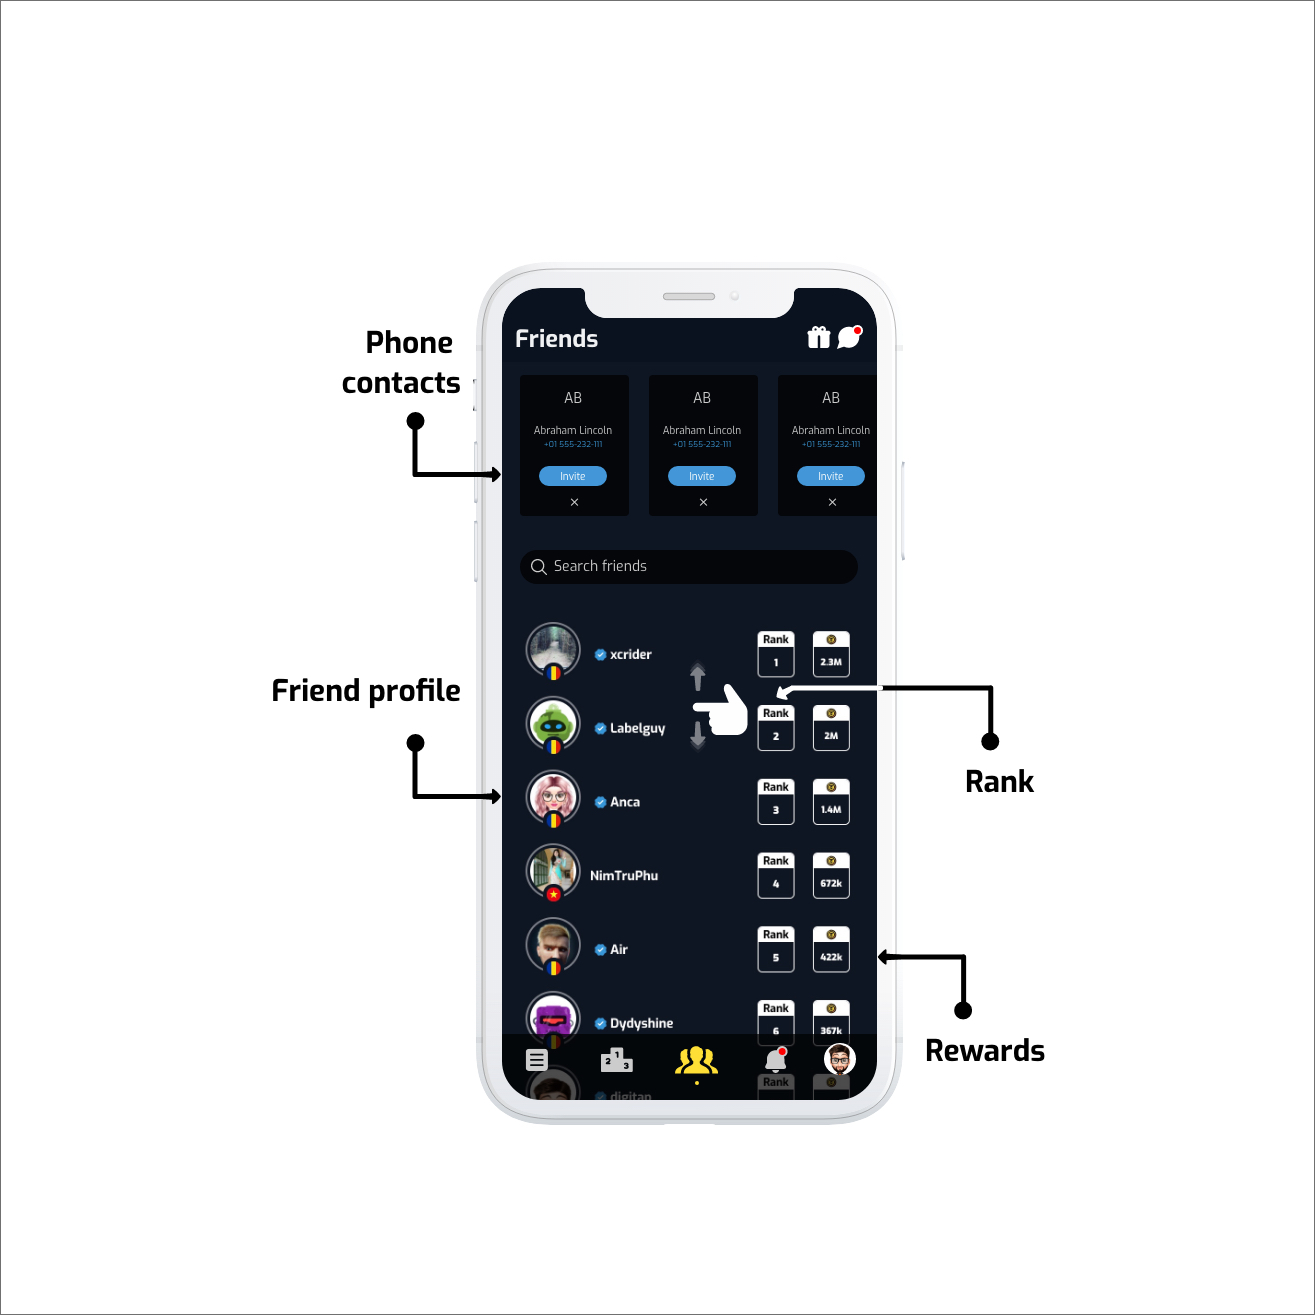
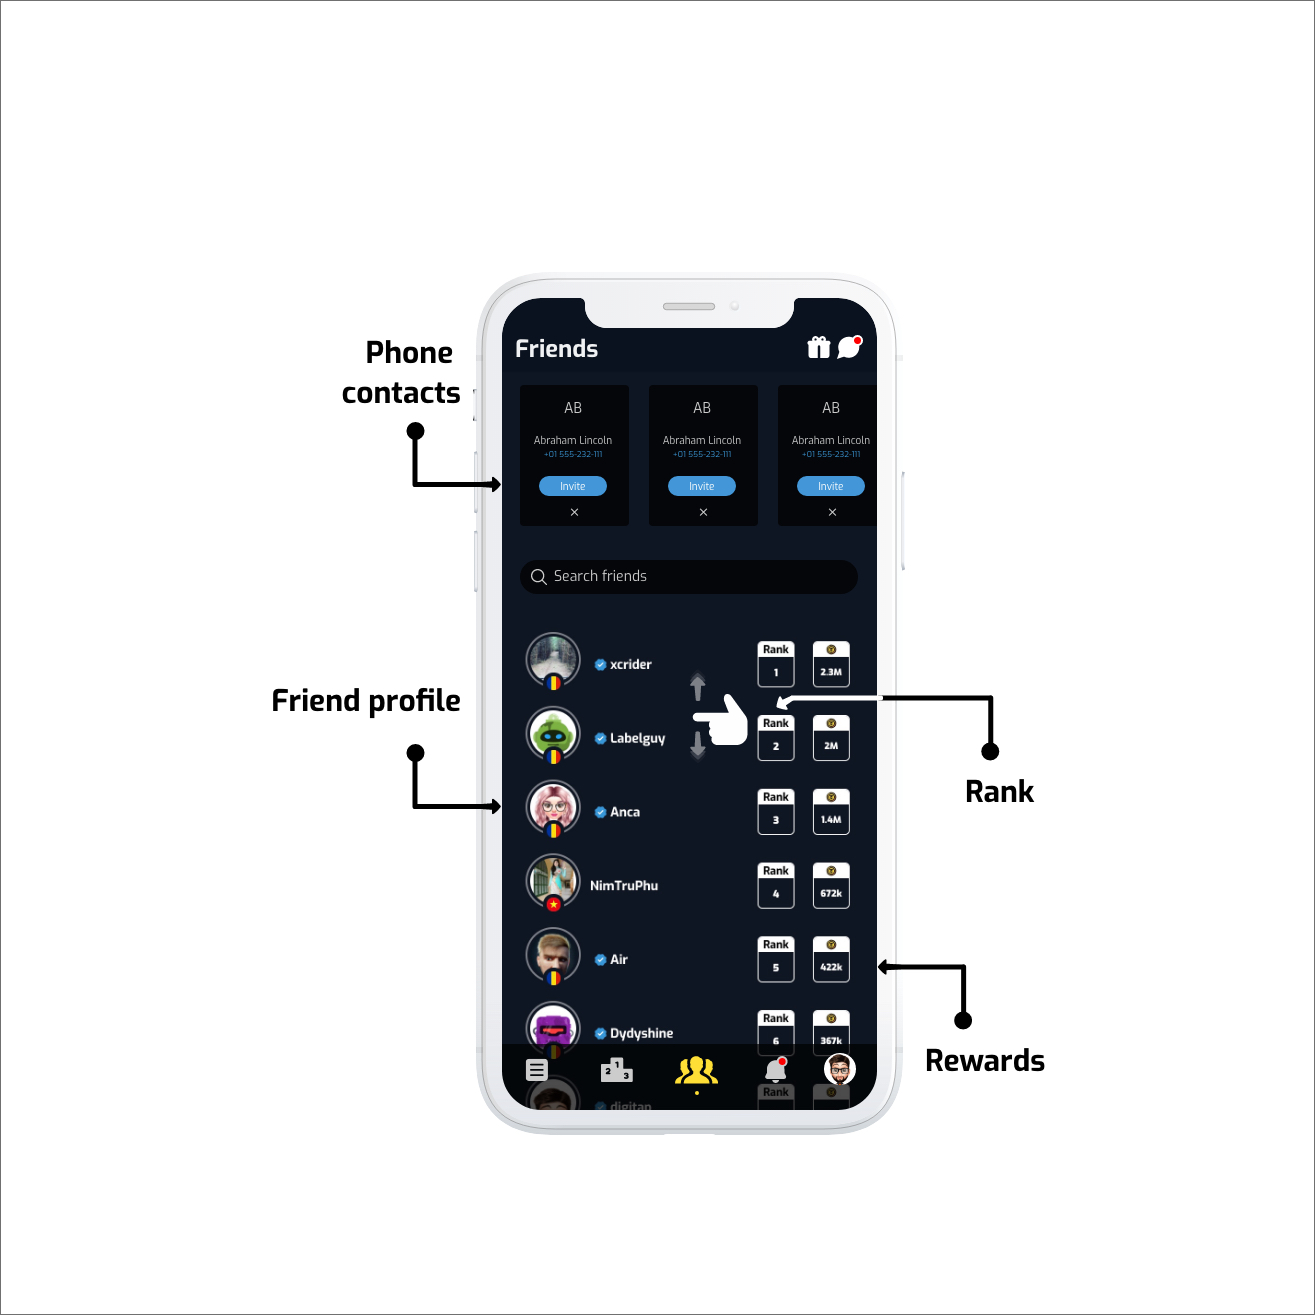
GitBook: [#56] added the story

Changed region(s): [[0.2183, 0.1871, 0.8106, 0.873], [0.2494, 0.2494, 0.3741, 0.3741]]

diff --git a/the-story.md b/the-story.md
@@ -1,0 +1,58 @@
+---
+description: >-
+  This page contains the story about how WAM.app came to be and why we believe
+  it will be a game changer in the world of gaming. #html5 #crypto #games
+  #hybridapp #browser
+---
+
+# The Story
+
+Our story begins in 2007 with the first game our team has every published. Back then games were Flash and Flash was games, on the open web. Crappy graphics, low performing computers, endless hours of fun and joy with friends.
+
+A lot has changed since including the birth of mobile games, the iPhone, Android, mobile stores with thousands then hundreds and now millions of games from developers based all over the world.
+
+With more and more performing devices coming out every year, most developers focus on the high end range and are focused on striking gold using a combination of great storyline or game design, cool graphics, ads and inapp purchases.
+
+### The Problem
+
+While phones have indeed progressed tremendously in the past 10 years, the statistics show most users are Android users with mid-to-low end devices with 3G connections, a limited data plan, most of the times without access to a bank card or a postpay contract with operators.
+
+All the above create the following reality:
+
+A lot of people around the world have limited entertainment options when it comes to accessing it from their mobile devices. They cannot download high end games because it's either expensive or low performing on their phones.
+
+Further more, in order to allow these users to play and make some revenue, most developers are faced with stuffing their games with tones of ads just to break even while struggling to get noticed on either Apple Store or Google Play because of the marketing costs and stiff competition.
+
+We believe we have a better, more open, simple and easily accessible way: https://wam.app
+
+### Our Solution
+
+From the beginning we believed the browser is making a huge comeback as the dominant platform on the internet with hundreds of millions of people accessing content without downloading anything, private where required with micropayments capabilities.
+
+After more than 10 years of building gaming platforms either as a service for our own purposes, in 2018 we saw the opportunity of a new platform for normal people, the regular Jane and Joe who in their spare time may chose to play a simple game or two, maybe with friends or other people.
+
+We then started looking to real life and saw a striking resemblance with amateur sports where hoards of sport fans ( football, basketball, rugby, paddle and so on ) come together every evening of the week and on weekends wherever they can ( rented sports centers, backyard, public spaces ) to have fun, exercise and compete with each other.
+
+Seeing this we decided to build a **web app** capable of delivering content fast, secure and intuitive to millions of people all around the world
+
+**Then the Pandemic struck**
+
+We got to launch **WAM.app** at a very weird, yet historical time: the declaration of the Pandemic. Watching the news and experiencing the lockdown ourselves we saw what we lacked: a fun way of interacting with friends and family, thousands of miles apart, without the need of special gaming skills or devices on an exciting new format.&#x20;
+
+### Why Blockchain
+
+Imagine you are given the opportunity to participate in a life changing industry which is already disrupting everything in its path, what would you do?&#x20;
+
+Would you jump in and pioneer your niche or sit on the sidelines? You know what we did: we jumped in as we believe.&#x20;
+
+The blockchain allows us to give access to **WAM.app** in a private fashion ( you will be able to login just with your wallet, like Metamask ).&#x20;
+
+With the rise of **NFTs** users have ownership of their digital rewards, they can trade them on marketplaces outside **WAM.app**, send them to friends or collect them. The important thing is: you decide.
+
+Tournaments become secure by default making it very hard for bad actors to manipulate results, meaning your skill **really does matter**.
+
+We also imagined an audacious scenario: what if by allowing users to compete for crypto rewards we actually ignite the mass adoption of crypto? What if?
+
+{% hint style="success" %}
+If you believe in power of pure fun with friends is **transformative**, join us on **WAM.app** and be part of this journey we are now. Learn to use crypto and win real rewards you can own without having to think how the tech works. That is our delight.
+{% endhint %}

diff --git a/the-platform/creator-tools.md b/the-platform/creator-tools.md
@@ -4,4 +4,10 @@ As mentioned before, players on **WAM.app** can create their own _private tourna
 
 In the near future, the creators will also be able to **build their own hyper-casual games** just with some simple instructions given to an **AI system**. With these games they can create even more engaging and fun tournaments where their communities can participate.
 
+Below, is the first screen from the tournament creation panel. This allows any user from any compatible device to create their own custom tournament on pre-existing games to invite and play with friends of their choosing.
+
+![The first step in creating your own tournament on WAM.app](../.gitbook/assets/wam\_appintro\_tournamentbuilder.jpg)
+
 Likewise, creators will be able to create** custom NFTs** which will be distributed as rewards for the participants of their tournaments.
+
+Here we believe games should build a stronger connection with their fans by minting special NFTs for each particular game. By releasing collectable items, users can then in the future participate in tournaments designed just for their preference

diff --git a/the-platform/social-profiles.md b/the-platform/social-profiles.md
@@ -11,19 +11,19 @@ In order to better highlight a profile's achievements we're also gonna add **bad
 Being a social platform also means you can add other players as friends, chat with them and in the future create clans with whom you can compete against others.
 
 {% tabs %}
-{% tab title="Profile" %}
-![](<../.gitbook/assets/image (5).png>)
+{% tab title="Account" %}
+![](../.gitbook/assets/wam\_appintro\_account.jpg)
 {% endtab %}
 
 {% tab title="Friends" %}
-![](<../.gitbook/assets/image (9) (1).png>)
+![](<../.gitbook/assets/wam\_appintro\_friends (1).jpg>)
 {% endtab %}
 
 {% tab title="Notifications" %}
-![](<../.gitbook/assets/image (10).png>)
+![](../.gitbook/assets/wam\_appintro\_notifications.jpg)
 {% endtab %}
 
 {% tab title="Rankings" %}
-![](<../.gitbook/assets/image (4).png>)
+![](../.gitbook/assets/wam\_appintro\_rankings.jpg)
 {% endtab %}
 {% endtabs %}

diff --git a/the-platform/README.md b/the-platform/README.md
@@ -37,7 +37,7 @@ There are 4 walls: **Amateur**, **Semi-Pro**, **Pro** and **Legend **– where y
 
 The platform will also have a _discovery section_, where you can find _private tournaments_ created by other players. For the private tournaments the _entrance fee_ and other settings (like duration) are set by the tournament creator.
 
-![](<../.gitbook/assets/image (2).png>)
+![](<../.gitbook/assets/wam\_appintro\_feed (1).jpg>)
 
 ### **NFT Tournaments**
 

diff --git a/SUMMARY.md b/SUMMARY.md
@@ -1,6 +1,7 @@
 # Table of contents
 
 * [WAM.app](README.md)
+* [The Story](the-story.md)
 * [The Platform](the-platform/README.md)
   * [Social Profiles](the-platform/social-profiles.md)
   * [Creator Tools](the-platform/creator-tools.md)
